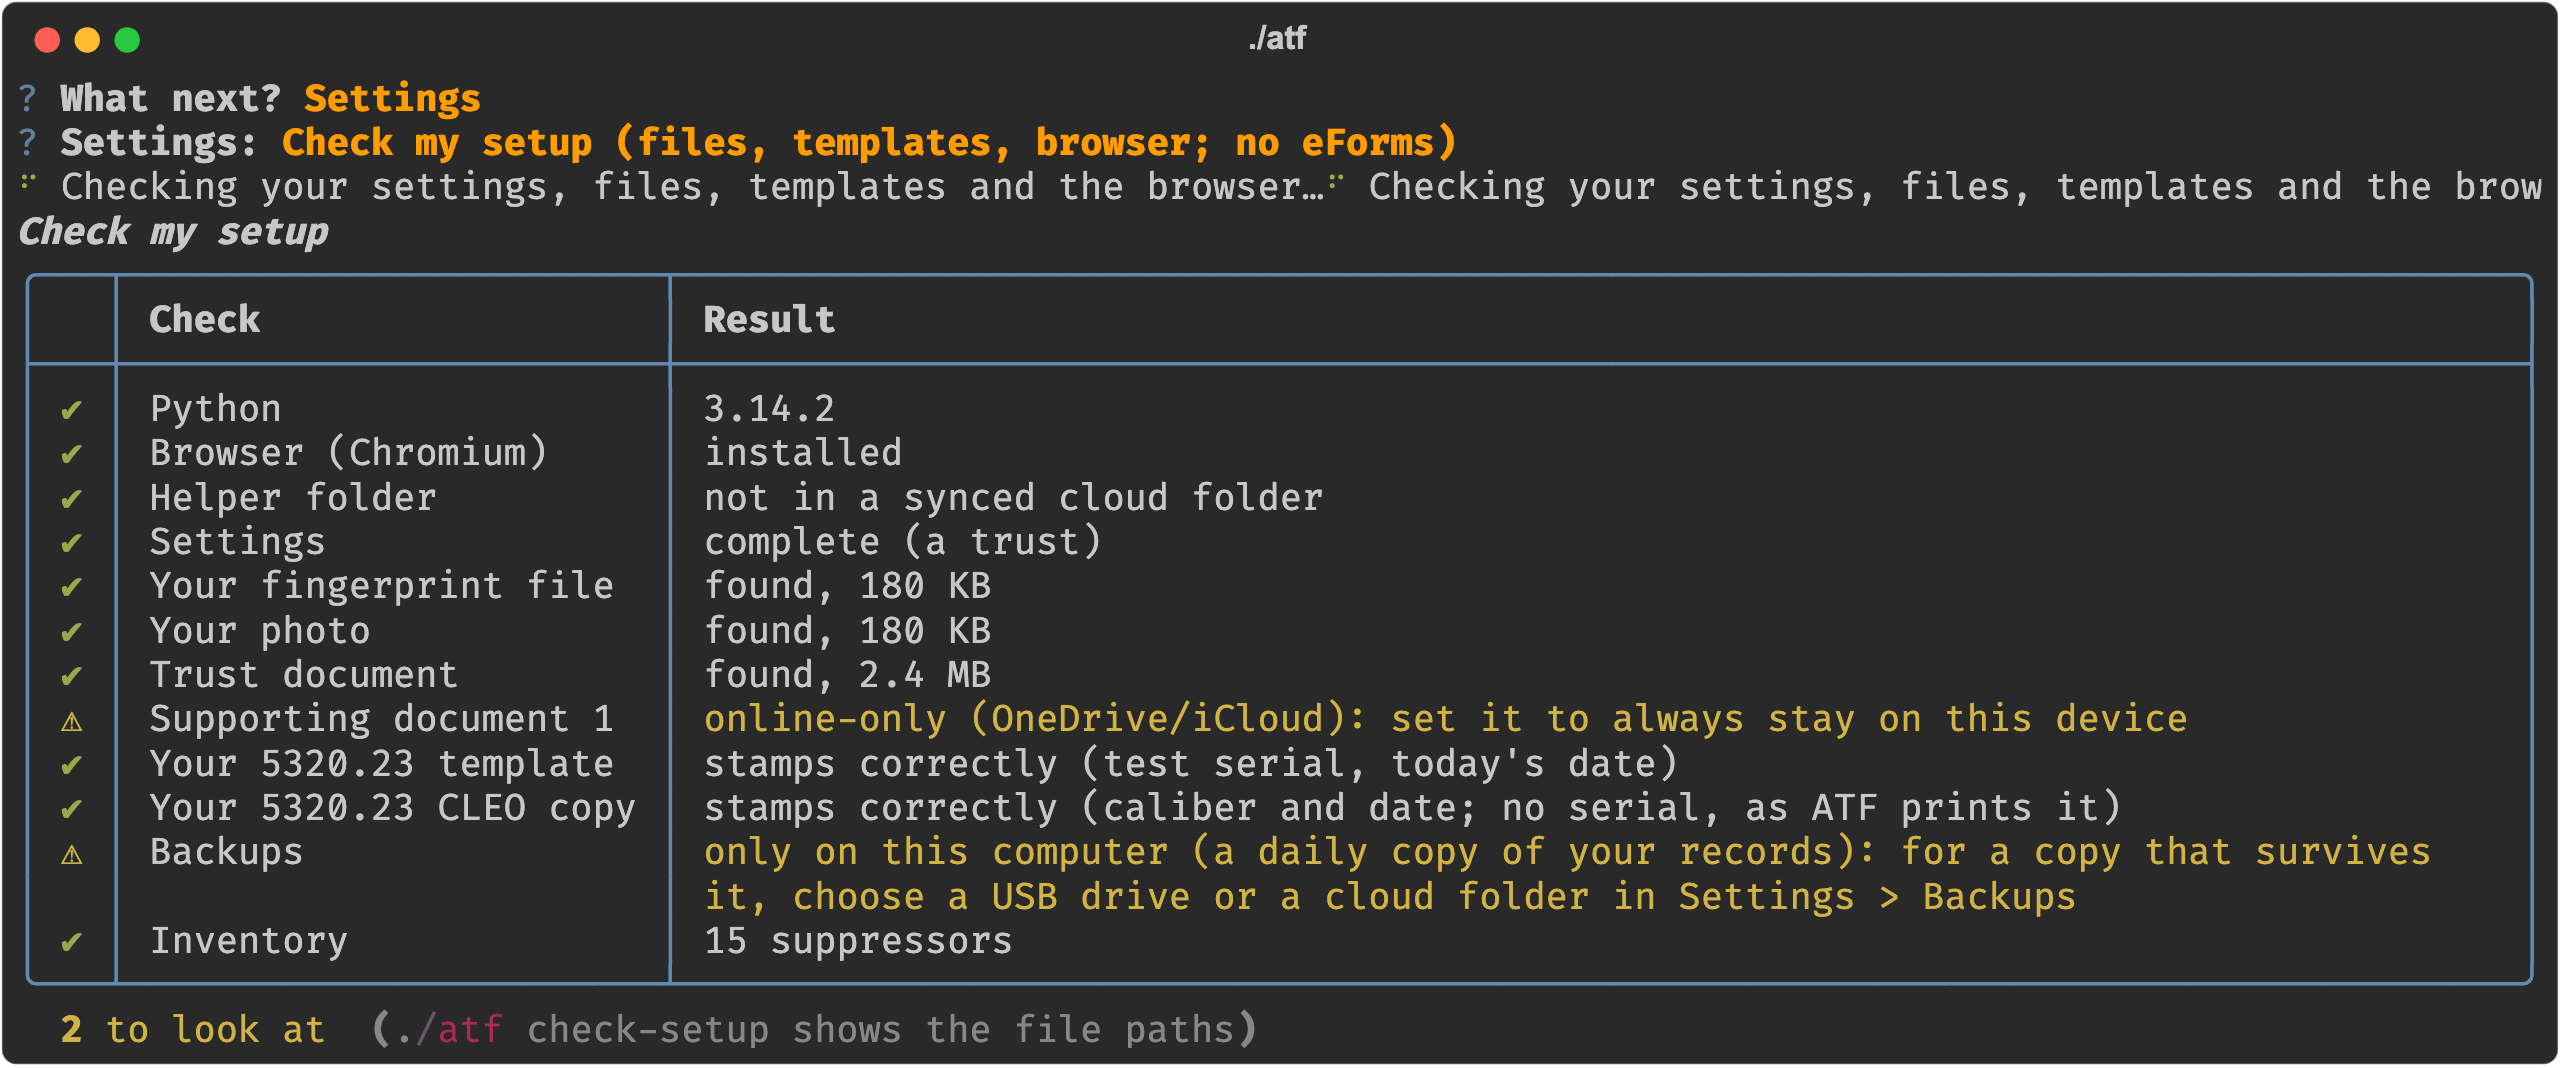
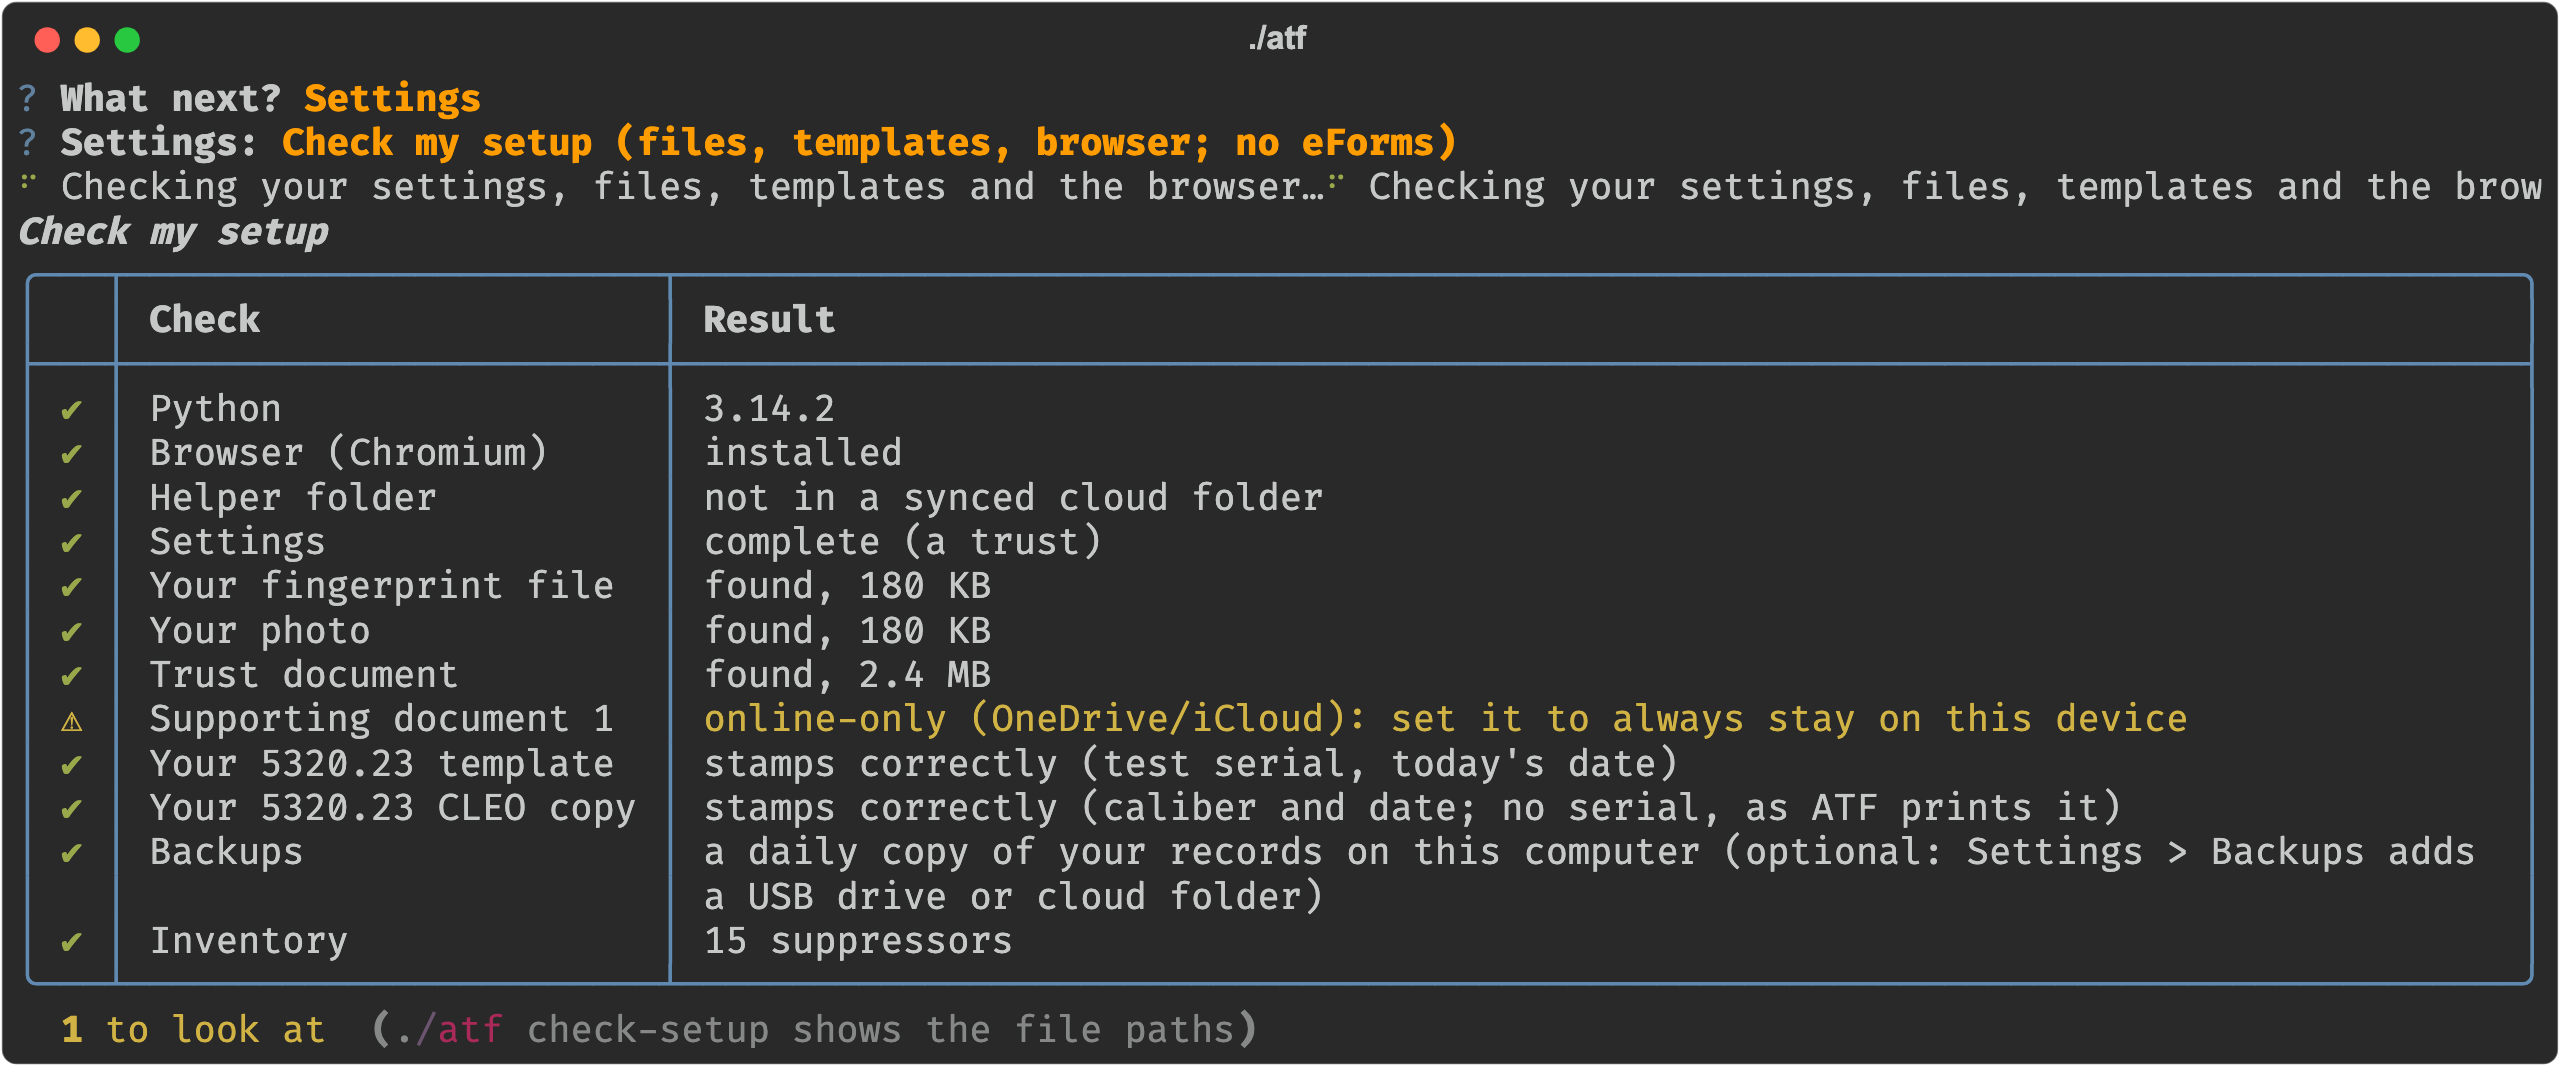
Backups: no backup folder isn't a warning in Check my setup (it's optional)

Changed region(s): [[0.2812, 0.7725, 0.9688, 0.8652]]

diff --git a/src/atf.py b/src/atf.py
@@ -2749,8 +2749,8 @@ def check_setup():
 def _backup_check(trust):
     folder = backup_folder(trust)
     if not folder:
-        return ("warn", "Backups", "only on this computer (a daily copy of your records): for a copy that survives it, "
-                "choose a USB drive or a cloud folder in Settings > Backups", str(OUT / "backups"))
+        return ("ok", "Backups", "a daily copy of your records on this computer (optional: Settings > Backups adds a "
+                "USB drive or cloud folder)", str(OUT / "backups"))  # optional: never counted as something to look at
     last = _backup_state().get("folder_ok")
     when = f"last copied {last[:10]}" if last else "not copied yet"
     if not Path(folder).expanduser().is_dir():

diff --git a/tests/test_backup.py b/tests/test_backup.py
@@ -118,6 +118,12 @@ def test_settings_backups_choose_a_folder(configured, answers, screen, tmp_path)
     assert atf.backup_folder() is None
 
 
+def test_no_backup_folder_is_fine_in_check_my_setup(configured):
+    """Backup folders are optional: without one, Check my setup says what's made, and it's not a warning."""
+    level, label, detail, _ = atf._backup_check(atf.load_trust())
+    assert (level, label) == ("ok", "Backups") and "optional" in detail
+
+
 def test_backup_folder_inside_the_helper_folder_is_refused(configured):
     assert ui._backup_folder_ok(str(atf.ROOT / "out")) != True  # noqa: E712
     assert ui._backup_folder_ok(str(atf.ROOT)) != True  # noqa: E712

diff --git a/CLAUDE.md b/CLAUDE.md
@@ -289,7 +289,7 @@ plain CLI, kept for debugging/scripting:
   deletes), plus the same records ZIPs in `records/` and a README on restoring. Why not whole ZIPs: approval PDFs +
   CLEO copies are ~270 MB for the user and never change. `backup_stale_days` (folder set, not reached for 7+ days,
   counted from `note_backup_folder_set`) = a yellow line under home. Check my setup "Backups" line (no folder =
-  warn). CLI `backup`. Screens show the folder's name only (`_folder_name`). Tests: `tests/test_backup.py`.
+  ok, saying it's optional: users must not be bugged to set one up; only a CHOSEN folder that's missing warns). CLI `backup`. Screens show the folder's name only (`_folder_name`). Tests: `tests/test_backup.py`.
 - **Check my setup** (`atf.check_setup()` -> [(ok|warn|fail, label, detail, path)]; CLI `check-setup`, exit 1 on a
   fail): Python version, Chromium (`_chromium_path`; on Linux also `_chromium_start_problem`, a headless launch, for
   missing system libraries), helper folder in a cloud folder (`CLOUD_FOLDERS`), missing
